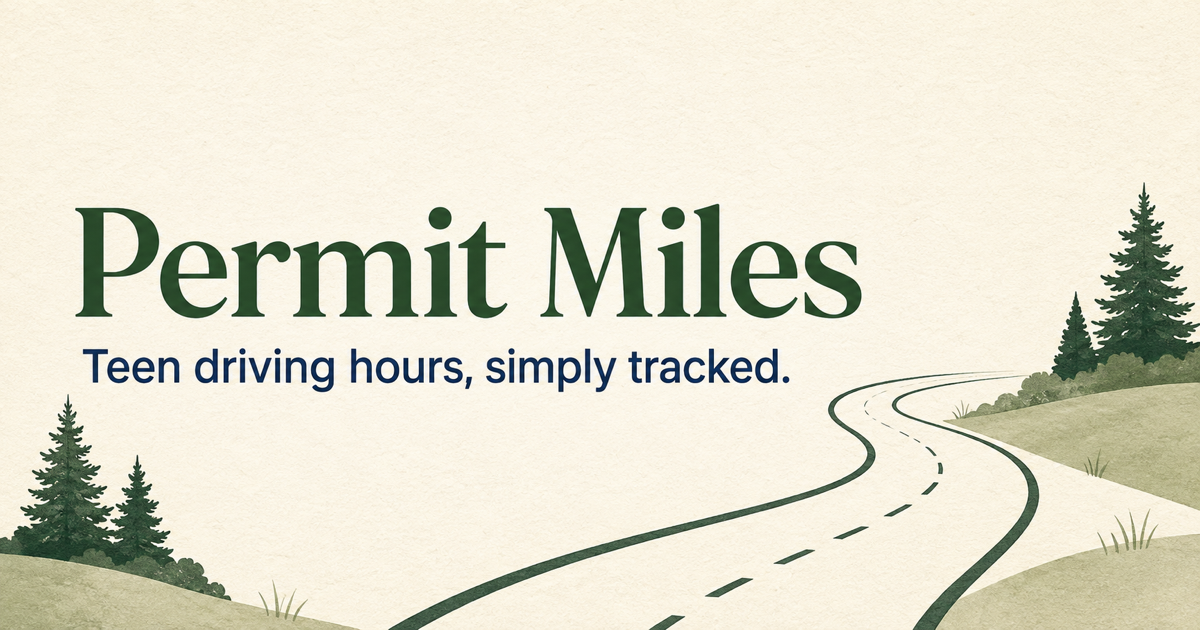
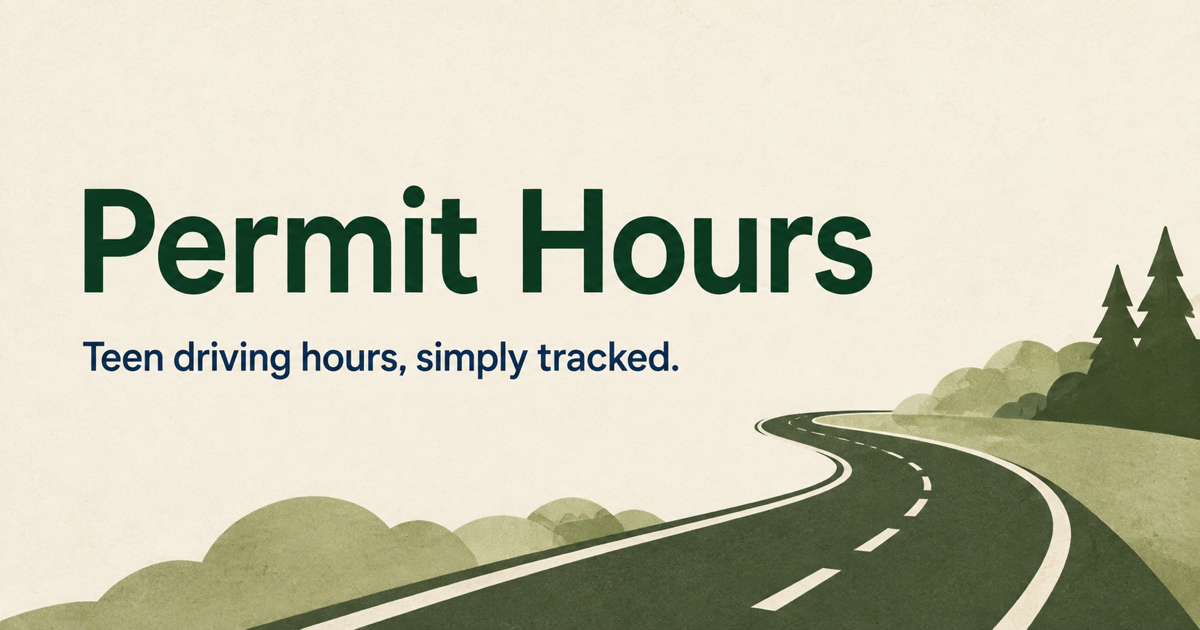
Rebrand app as Permit Hours

diff --git a/app/page.tsx b/app/page.tsx
@@ -346,7 +346,7 @@ export default function Home() {
   }
 
   function exportJson() {
-    downloadFile(`permit-miles-${dateInputValue(new Date())}.json`, JSON.stringify(data, null, 2), 'application/json');
+    downloadFile(`permit-hours-${dateInputValue(new Date())}.json`, JSON.stringify(data, null, 2), 'application/json');
   }
 
   function exportCsv() {
@@ -356,19 +356,19 @@ export default function Home() {
       return [driver?.name ?? 'Unknown', session.start, session.end, Math.round(durationMs(session) / 60_000), session.period, session.weather, session.notes];
     });
     const csv = [header, ...rows].map((row) => row.map(csvCell).join(',')).join('\n');
-    downloadFile(`permit-miles-${dateInputValue(new Date())}.csv`, csv, 'text/csv;charset=utf-8');
+    downloadFile(`permit-hours-${dateInputValue(new Date())}.csv`, csv, 'text/csv;charset=utf-8');
   }
 
   if (!ready) {
-    return <main className="loading-screen"><span className="brand-mark"><CarFront size={20} /></span><span>Loading Permit Miles…</span></main>;
+    return <main className="loading-screen"><span className="brand-mark"><CarFront size={20} /></span><span>Loading Permit Hours…</span></main>;
   }
 
   return (
     <main className="app-shell" id="top">
       <header className="topbar">
-        <a className="brand" href="#top" aria-label="Permit Miles home">
+        <a className="brand" href="#top" aria-label="Permit Hours home">
           <span className="brand-mark"><CarFront size={20} strokeWidth={2.4} /></span>
-          <span>Permit Miles</span>
+          <span>Permit Hours</span>
         </a>
         <div className="top-actions">
           {data.drivers.length > 0 && (

diff --git a/app/layout.tsx b/app/layout.tsx
@@ -3,20 +3,20 @@ import './globals.css';
 
 export const metadata: Metadata = {
   metadataBase: new URL(process.env.NEXT_PUBLIC_SITE_URL ?? 'https://rharder.github.io/driver-permit-tracking/'),
-  title: 'Permit Miles — Teen driving log',
+  title: 'Permit Hours — Teen driving log',
   description: 'A simple, private, offline driving practice tracker for permit hours.',
   manifest: './manifest.webmanifest',
-  applicationName: 'Permit Miles',
-  appleWebApp: { capable: true, statusBarStyle: 'default', title: 'Permit Miles' },
+  applicationName: 'Permit Hours',
+  appleWebApp: { capable: true, statusBarStyle: 'default', title: 'Permit Hours' },
   openGraph: {
-    title: 'Permit Miles — Teen driving log',
+    title: 'Permit Hours — Teen driving log',
     description: 'Teen driving hours, simply tracked.',
     type: 'website',
-    images: [{ url: './og.png', width: 1200, height: 630, alt: 'Permit Miles — Teen driving hours, simply tracked.' }],
+    images: [{ url: './og.png', width: 1200, height: 630, alt: 'Permit Hours — Teen driving hours, simply tracked.' }],
   },
   twitter: {
     card: 'summary_large_image',
-    title: 'Permit Miles — Teen driving log',
+    title: 'Permit Hours — Teen driving log',
     description: 'Teen driving hours, simply tracked.',
     images: ['./og.png'],
   },

diff --git a/public/sw.js b/public/sw.js
@@ -1,4 +1,4 @@
-const CACHE_NAME = 'permit-miles-v1';
+const CACHE_NAME = 'permit-hours-v1';
 const APP_SHELL = ['./', './manifest.webmanifest', './favicon.svg', './icon.svg'];
 
 self.addEventListener('install', (event) => {

diff --git a/README.md b/README.md
@@ -1,6 +1,6 @@
-# Permit Miles
+# Permit Hours
 
-Permit Miles is an offline-first teen driving-hours tracker. It supports multiple drivers, one-tap timers, day/night goals, weather conditions, editable entries, and JSON/CSV exports without requiring an account.
+Permit Hours is an offline-first teen driving-hours tracker. It supports multiple drivers, one-tap timers, day/night goals, weather conditions, editable entries, and JSON/CSV exports without requiring an account.
 
 ## Run locally
 
